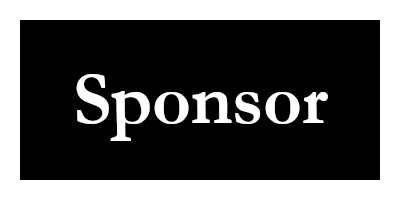
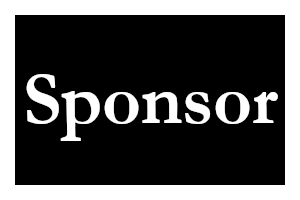
change default sponsor square to a good size

Changed region(s): [[0.09, 0.36, 0.93, 0.72], [0.03, 0.06, 0.96, 0.12], [0.03, 0.9, 0.96, 0.93]]

diff --git a/public/css/one-page-wonder.css b/public/css/one-page-wonder.css
@@ -308,7 +308,7 @@ header.masthead .bg-plus-1 {
 .title-partner {
     justify-content: center;
     align-items: center;
-    flex: 2;
+    flex: 4;
     width:fit-content;
     height:fit-content;
     background-color: var(--ink);
